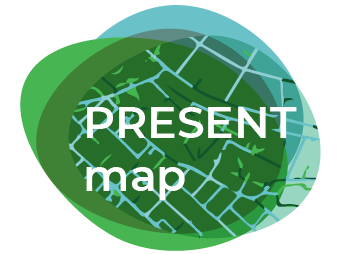
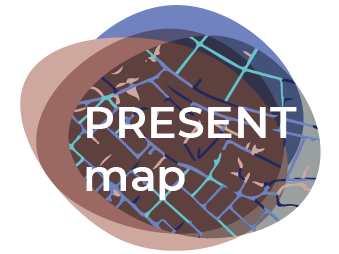
index buttons

diff --git a/index.html b/index.html
@@ -101,8 +101,13 @@
         <div class="carousel-text">
           <h2>GENIUS LOCI: </h2>
           <h3>Urbanization and civil society</h3>
+          <div class="d-flex justify-content-around align-content-between mt-3">
+            <a class="btn-maps" href="./maps-past.html" style="background-image: url(./css/home/1_MAP_EN.png);"></a>
+            <a class="btn-maps" href="./maps-present.html" style="background-image: url(./css/home/2_MAP_EN.png);"></a>
+            <a class="btn-maps" href="./maps-future.html" style="background-image: url(./css/home/3_MAP_EN.png);"></a>
+          </div>
           <h4>This project is about the involvement of citizens in the planning of the territory of Šančiai district. It is funded by the EEA and Norwegian financial mechanisms and organised by Žemųjų Šančių community. Project time: 2020-2023.</h4>
-          <a class="btn-maps" href="./maps-past.html" style="background-image: url(./css/home/MAP_EN.png);"></a>
+          
         </div>
       </div>
       <!-- Mobile -->
@@ -110,7 +115,11 @@
         <div class="carousel-text">
           <h2>GENIUS LOCI: Lorem ipsum dolor sit amet consectetur adipisicing elit. </h2>
           <h3>Urbanization and civil society</h3>
-          <a class="btn-maps" href="./maps-past.html"></a>
+          <div class="d-flex justify-content-around align-content-between">
+            <a class="btn-maps" href="./maps-past.html" style="background-image: url(./css/home/1_MAP_EN.png);"></a>
+            <a class="btn-maps" href="./maps-present.html" style="background-image: url(./css/home/2_MAP_EN.png);"></a>
+            <a class="btn-maps" href="./maps-future.html" style="background-image: url(./css/home/3_MAP_EN.png);"></a>
+          </div>
         </div>
       </div>
     </div>

diff --git a/css/base.css b/css/base.css
@@ -207,16 +207,16 @@ header{
   font-weight: 500;
   text-align: left;
   line-height: 2em;
-  margin-top: 2vw;
+  margin-top: 5vw;
   margin-right: 2vw;
-  width: 35vw;
+  width: 25vw;
 }
 .btn-maps{
   display: flex;
   justify-content: center;
   align-items: center;
-  min-width: 20vw;
-  min-height: 30vh;
+  min-width: 10vw;
+  min-height: 20vh;
   background: no-repeat center center;
   -webkit-background-size: cover;
   -moz-background-size: cover;
@@ -224,7 +224,6 @@ header{
   background-size: contain;
   position: relative;
   top: 5%;
-  left: -15%;
   color: white !important;
   font-style: italic;
   vertical-align: center;
